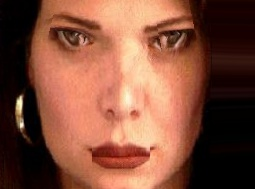
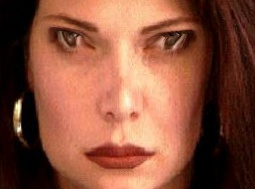
modify image boundary

diff --git a/hw2/hw2.py b/hw2/hw2.py
@@ -107,7 +107,7 @@ def backward_mapping(image, x, y):
     a = I11 * (1 - t) + I12 * t  # Interpolate horizontally along top row
     b = I21 * (1 - t) + I22 * t  # Interpolate horizontally along bottom row
     value = a * (1 - s) + b * s  # Interpolate vertically between the two rows
-
+    value = (1-s)*((1-t)*I11 + t*I12)+s*((1-t)*I21+t*I22)
     return value
     
 def mapping(cur_point, P1, Q1, P2, Q2, p=0.5, a=1, b=1):
@@ -135,9 +135,9 @@ def mapping(cur_point, P1, Q1, P2, Q2, p=0.5, a=1, b=1):
     displacement = xt - cur_point
     # 计算权重的距离 dist，依赖于 u 的值
     if u < 0:
-        dist = np.sqrt(np.sum(np.square(cur_point - P1)))  # 如果 u < 0，计算与起点的距离
+        dist = np.sqrt(np.sum(np.square(xt - P1)))  # 如果 u < 0，计算与起点的距离
     elif u > 1:
-        dist = np.sqrt(np.sum(np.square(cur_point - Q1)))  # 如果 u > 1，计算与终点的距离
+        dist = np.sqrt(np.sum(np.square(xt - Q1)))  # 如果 u > 1，计算与终点的距离
     else:
         dist = abs(v)  # 如果 0 <= u <= 1，距离为垂直距离
 
@@ -145,6 +145,7 @@ def mapping(cur_point, P1, Q1, P2, Q2, p=0.5, a=1, b=1):
     weight = pow((inter_len**p) / (a + dist), b)
 
     return displacement, weight
+
 
 def calculate_warp_field(img, src_feature_start, src_feature_end, target_feature_start, target_feature_end, a=1, b=1, p=0.5):
     h, w, _ = img.shape
@@ -178,15 +179,12 @@ def calculate_warp_field(img, src_feature_start, src_feature_end, target_feature
                 point_y = point_y[0]
 
             # Clamping point to image boundaries
-            if point_x < 0:
-                point_x = 0
-            elif point_x >= h:
-                point_x = h - 1
-            
-            if point_y < 0:
-                point_y = 0
-            elif point_y >= w:
-                point_y = w - 1
+            point_x = float(point[0])
+            point_y = float(point[1])
+
+            # Clamping point to image boundaries
+            point_x = np.clip(point_x, 0, w - 1)
+            point_y = np.clip(point_y, 0, h - 1)
 
             # Backward map the point to get the pixel value
             warp_img[y, x] = backward_mapping(img, point_x, point_y)
